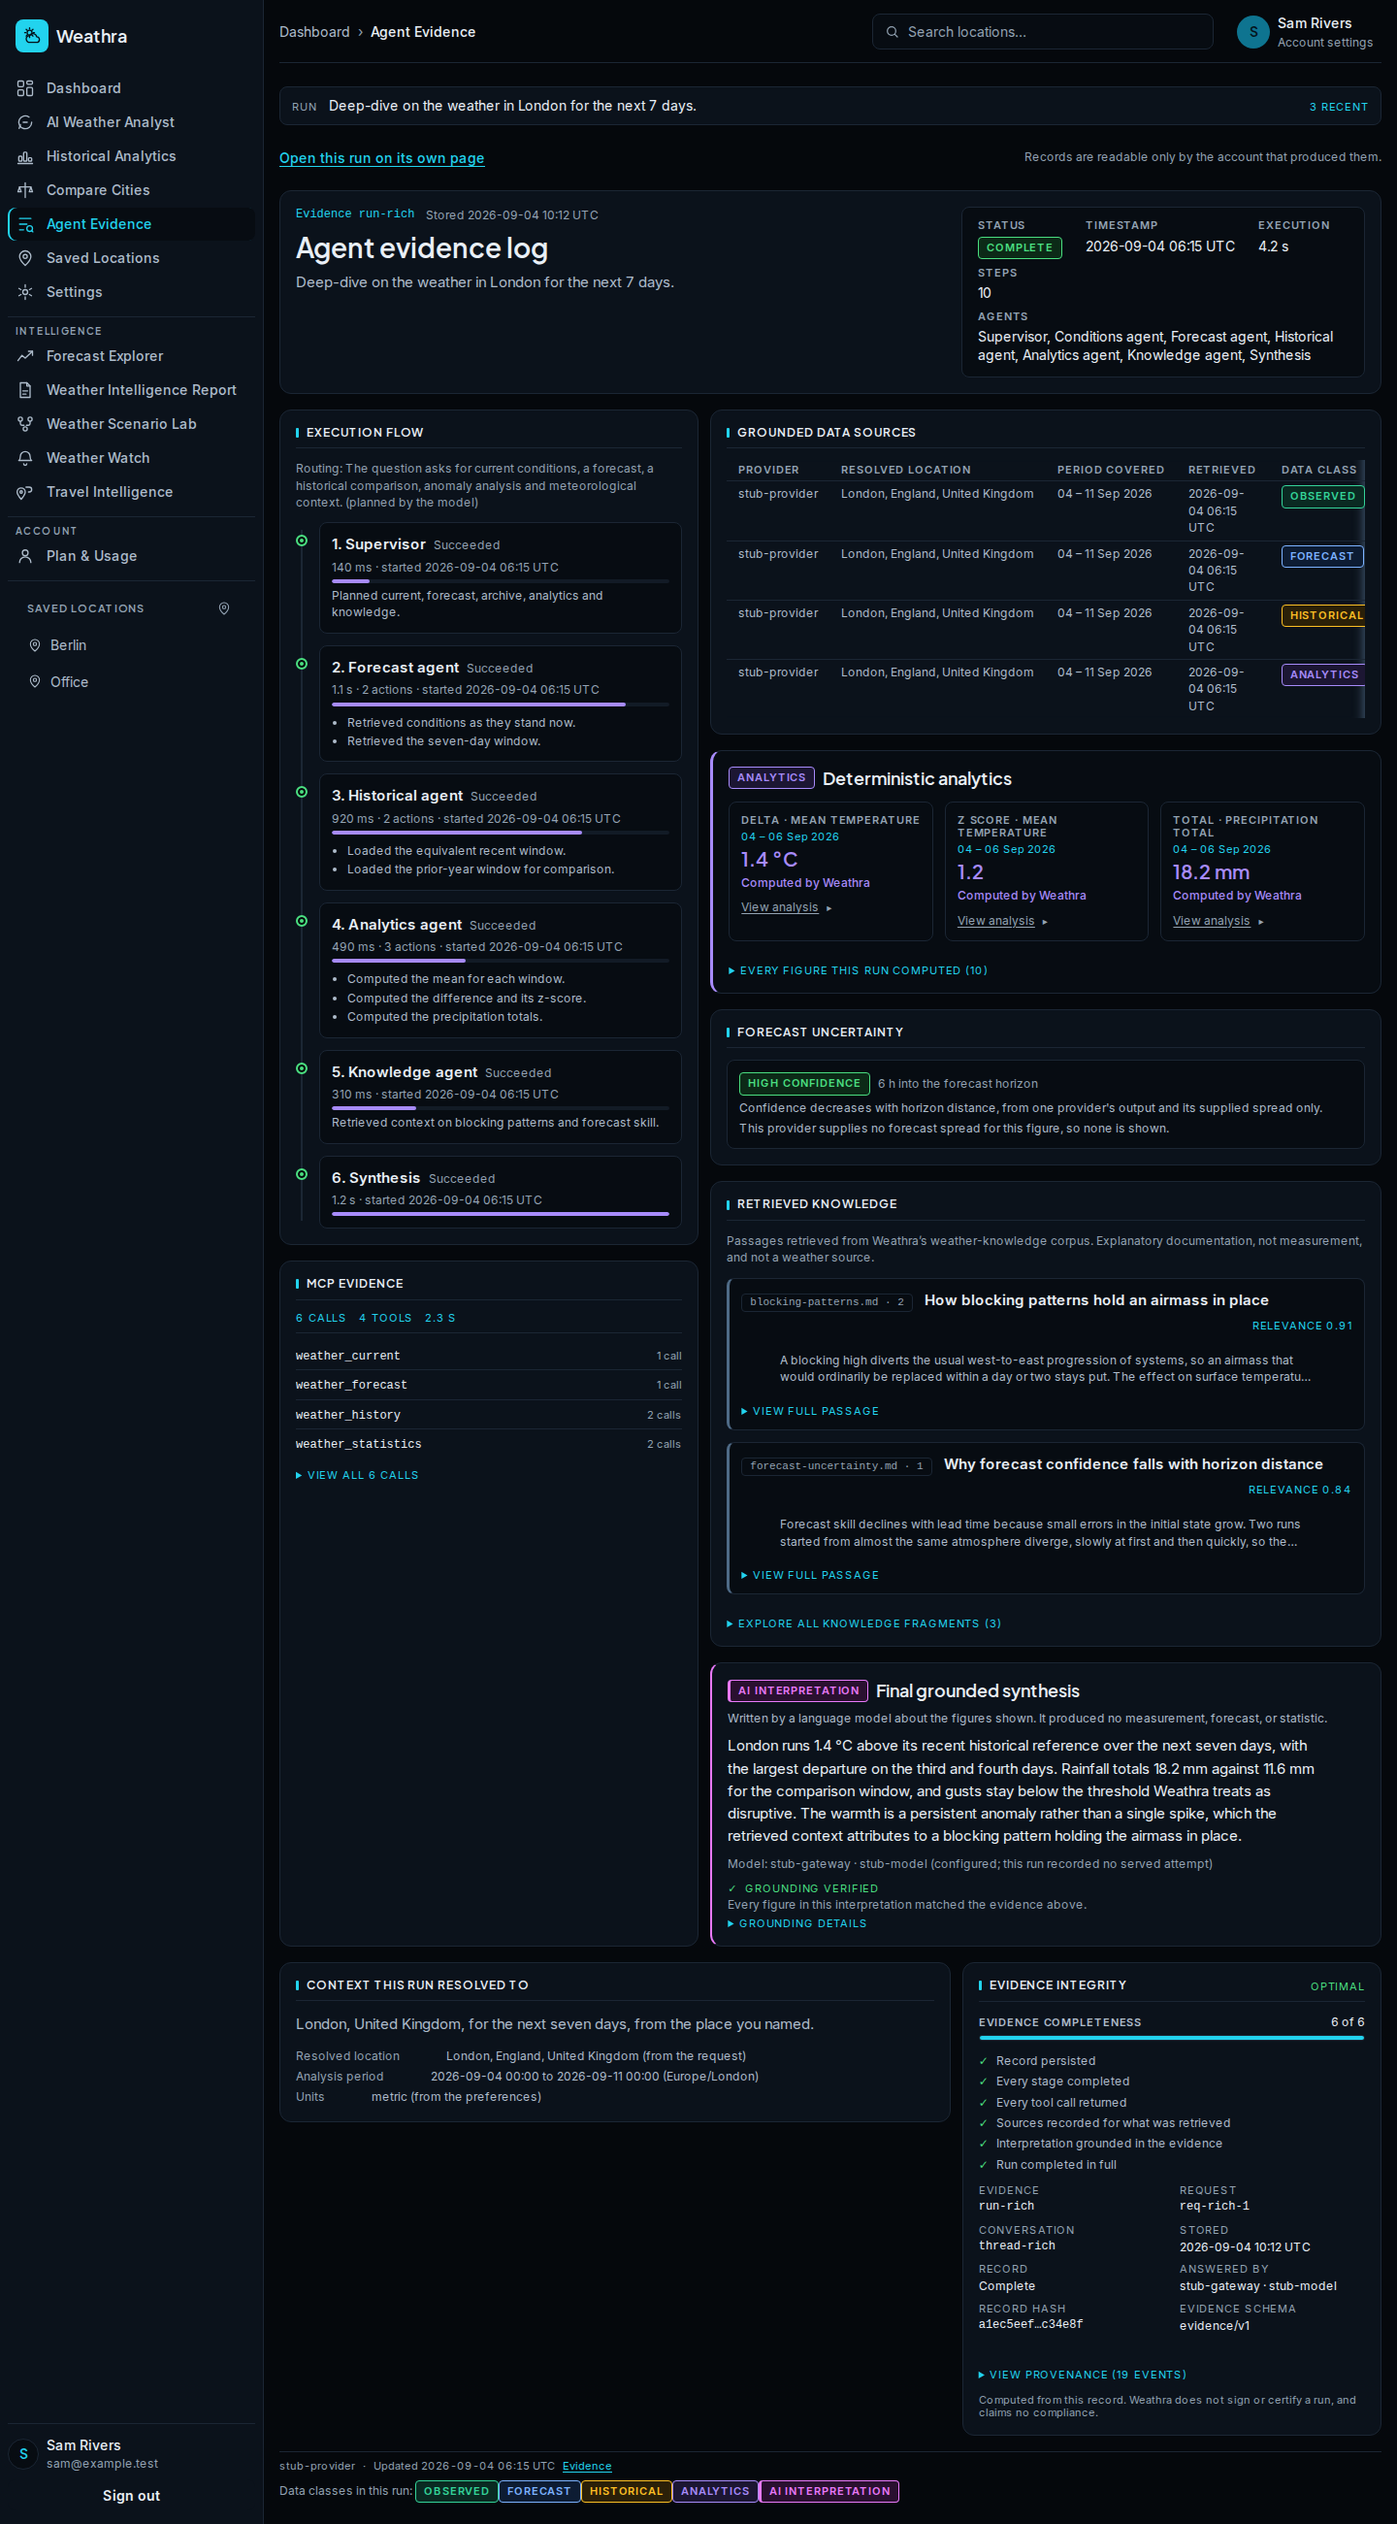
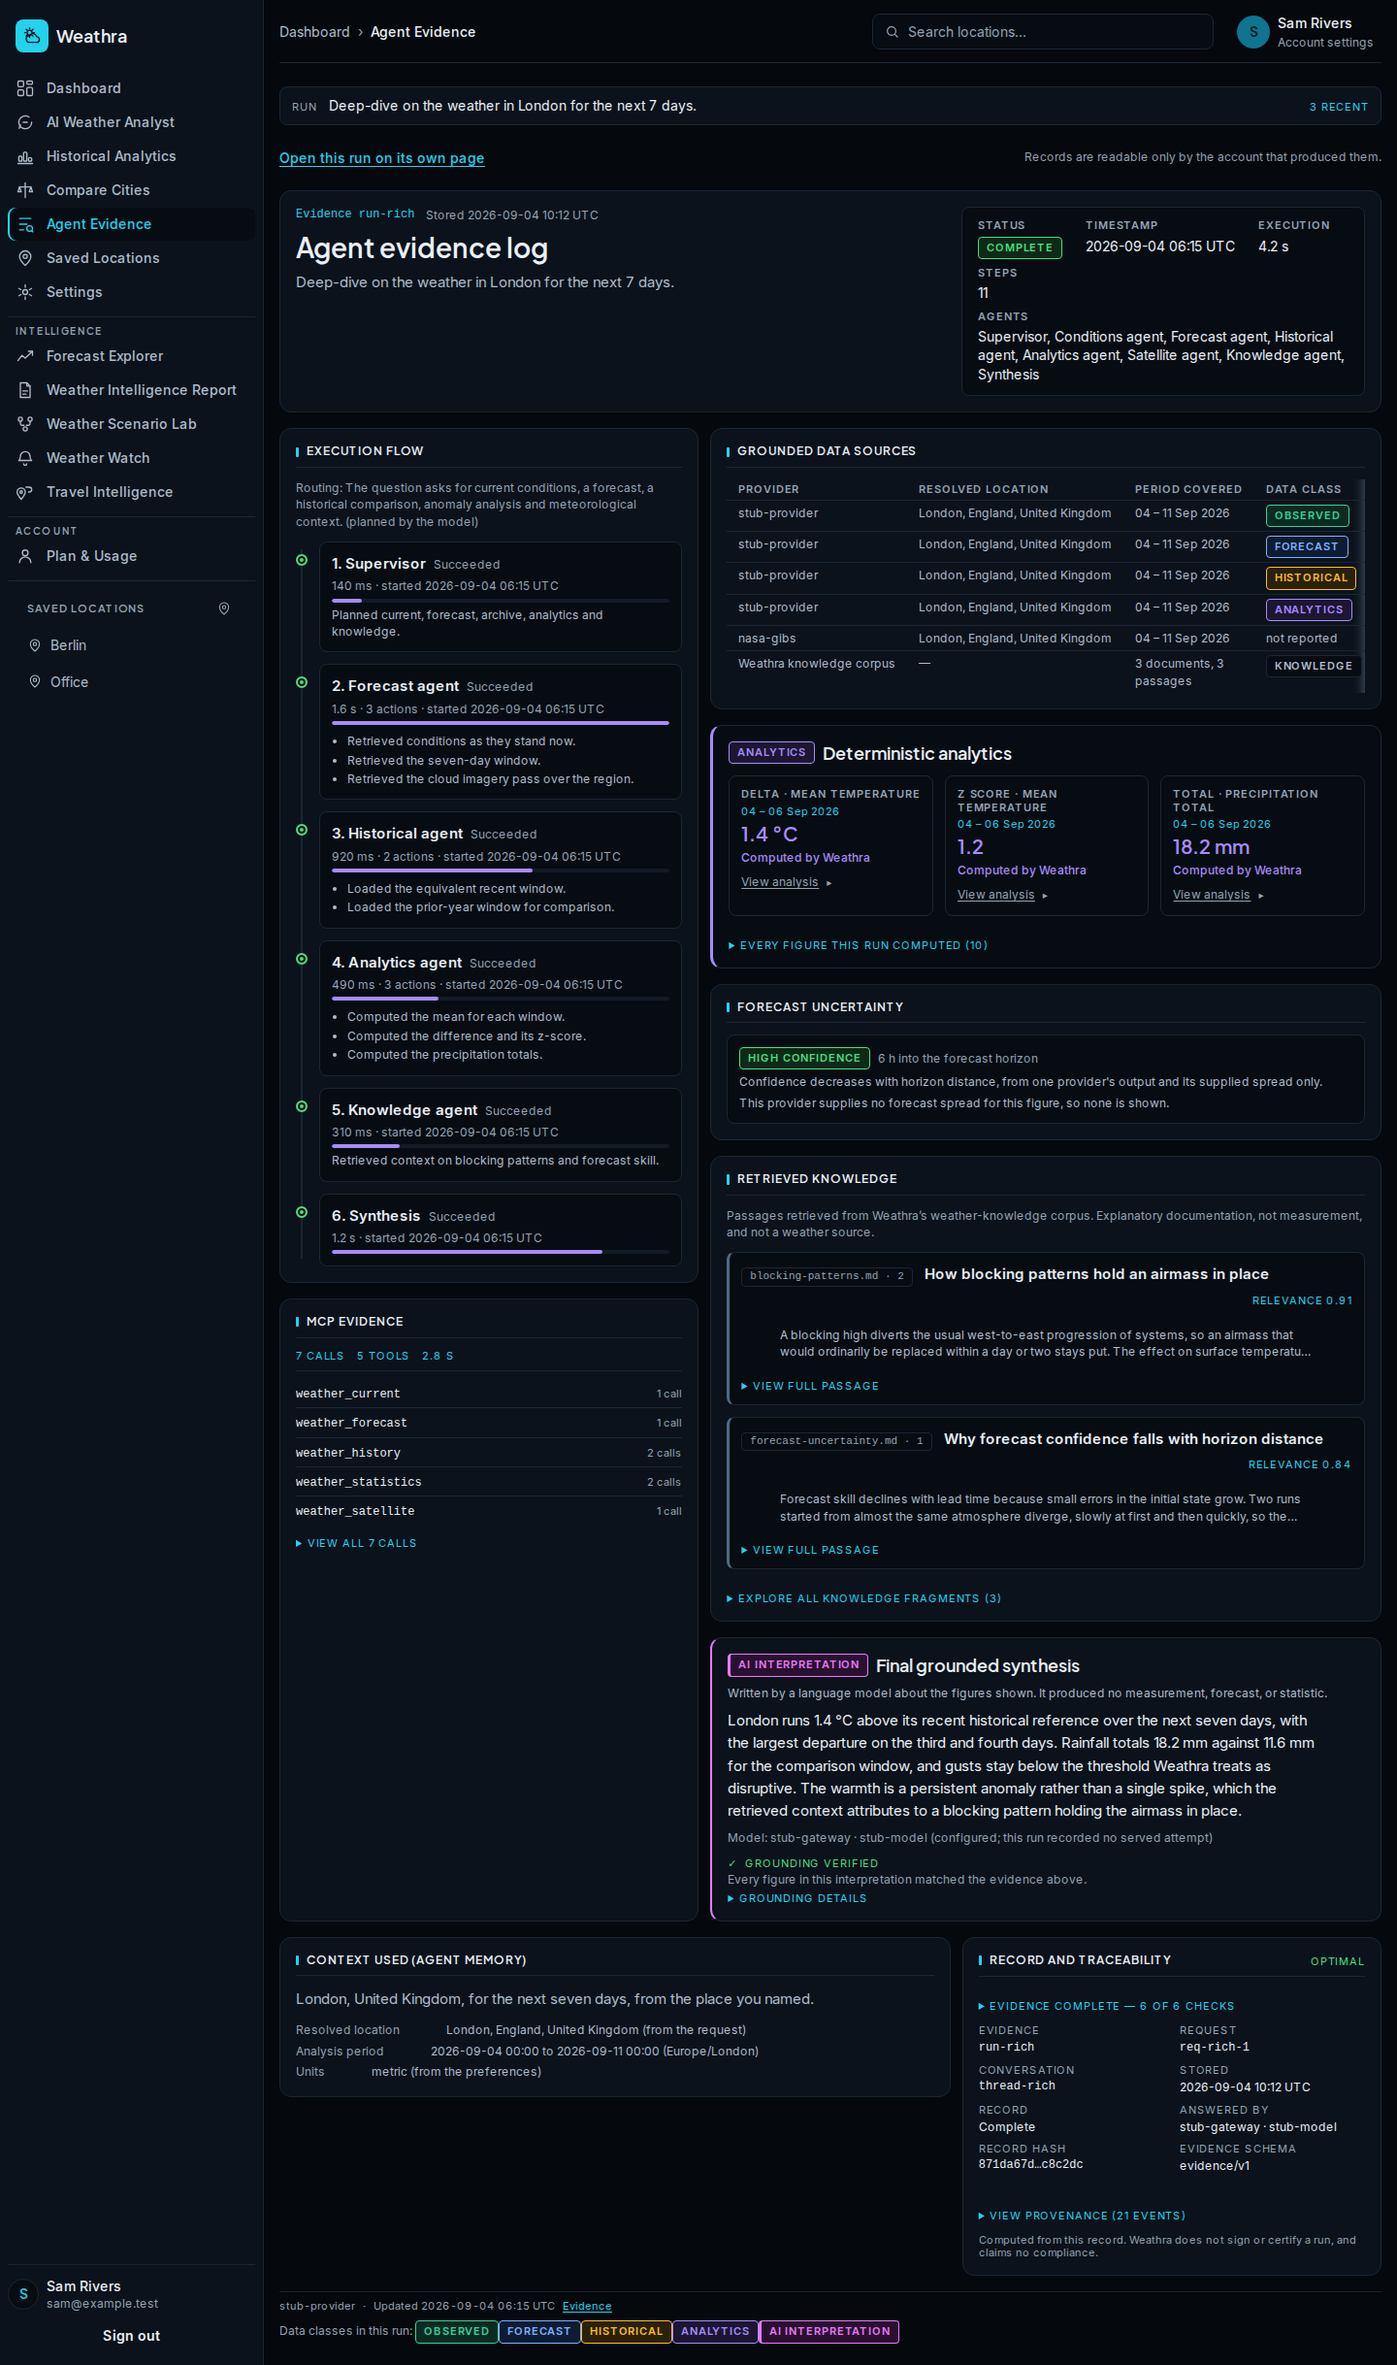
feat(evidence): the acceptance run, proved in the render
Six logical stages, six real evidence classes, and the artifact's own panel titles.

**Six stages, not eight.** Retrieval agents group into one card: conditions, the seven-day window
and the imagery pass are one part of the pipeline doing three things, and the column answers "which
parts ran". Grouping is presentation — `current`, `forecast` and `satellite_observation` each keep
their own row in the sources table, because they are different claims and the table is where that
distinction belongs.

**Six evidence classes.** Observed, forecast, historical and analytics from recorded attributions;
`nasa-gibs` for the imagery pass, which is the satellite source this project actually integrates
rather than the artifact's "NASA POWER"; and the knowledge corpus as a row of its own, derived from
citations the run recorded. A retrieval records an attribution and the corpus records citations, so
a run that leaned on documentation had nothing in the table saying where its explanation came from.
The row is omitted entirely when nothing was cited.

**The table fits.** Five columns cost the data-class chips their width — the class was clipped off
the right edge — so the retrieval instant left it for the provenance timeline, where "when" is
already answered properly.

**The artifact's titles.** "Context used (agent memory)" and "Record and traceability", which is
also where the completeness checks, hash, schema version and provenance now live: they belong in
[…]

diff --git a/weathra/frontend/components/evidence/sections.tsx b/weathra/frontend/components/evidence/sections.tsx
@@ -44,7 +44,6 @@ import {
   UncertaintyIndicator,
   formatInstant,
   formatLocalStamp,
-  Meter,
 } from "@/components/ui";
 import type {
   AnomalyReport,
@@ -557,22 +556,34 @@ export function ToolActivityPanel({ record }: { readonly record: RunRecord }): R
  */
 export function GroundedSources({
   sources,
+  citations = [],
 }: {
   readonly sources: readonly EvidenceAttribution[];
+  /** Passages the run cited. The corpus is a grounded source and belongs in this table. */
+  readonly citations?: readonly KnowledgeCitation[];
 }): ReactNode {
+  /*
+   * The knowledge corpus, as a row of its own.
+   *
+   * A retrieval records an attribution; the corpus records citations instead, so a run that leaned
+   * on documentation showed nothing in the table that said where the explanation came from. The row
+   * is derived from citations the run actually recorded — the documents it read, counted — and is
+   * omitted entirely when it cited none. Weathra's own corpus, so the provider is Weathra.
+   */
+  const documents = [...new Set(citations.map((citation) => citation.document_id))];
   return (
     <section
       className={styles.panel}
       aria-label="Grounded data sources"
       data-evidence-section="sources"
       data-tier="retrieved"
-      data-empty={sources.length === 0 ? "true" : undefined}
+      data-empty={sources.length === 0 && documents.length === 0 ? "true" : undefined}
     >
       <header className={styles.panelHeader}>
         <h2 className={styles.panelTitle}>Grounded data sources</h2>
       </header>
 
-      {sources.length === 0 ? (
+      {sources.length === 0 && documents.length === 0 ? (
         <p className={styles.emptyNote}>
           No provider data — this run answered from knowledge rather than from a weather retrieval.
         </p>
@@ -588,7 +599,6 @@ export function GroundedSources({
                 <th scope="col">Provider</th>
                 <th scope="col">Resolved location</th>
                 <th scope="col">Period covered</th>
-                <th scope="col">Retrieved</th>
                 <th scope="col">Data class</th>
               </tr>
             </thead>
@@ -603,11 +613,25 @@ export function GroundedSources({
                     <td>{source.provider}</td>
                     <td>{placeLabel(source.location) ?? NOT_REPORTED}</td>
                     <td title={exactCoverageOf(source)}>{coverageOf(source)}</td>
-                    <td>{formatInstant(source.retrieved_at) ?? NOT_REPORTED}</td>
                     <td>{dataClass ? <DataClassBadge dataClass={dataClass} /> : NOT_REPORTED}</td>
                   </tr>
                 );
               })}
+
+              {/* The corpus, where the run cited it. Derived from real citations, never invented. */}
+              {documents.length > 0 ? (
+                <tr data-source-class="knowledge">
+                  <td>Weathra knowledge corpus</td>
+                  <td>&mdash;</td>
+                  <td>
+                    {documents.length} {documents.length === 1 ? "document" : "documents"},{" "}
+                    {citations.length} {citations.length === 1 ? "passage" : "passages"}
+                  </td>
+                  <td>
+                    <Badge tone="neutral">KNOWLEDGE</Badge>
+                  </td>
+                </tr>
+              ) : null}
             </tbody>
           </table>
         </ScrollRegion>
@@ -958,12 +982,12 @@ export function ResolvedContextPanel({ record }: { readonly record: RunRecord })
   return (
     <section
       className={styles.panel}
-      aria-label="Context this run resolved to"
+      aria-label="Context used (agent memory)"
       data-evidence-section="context"
       data-empty={resolved === null ? "true" : undefined}
     >
       <header className={styles.panelHeader}>
-        <h2 className={styles.panelTitle}>Context this run resolved to</h2>
+        <h2 className={styles.panelTitle}>Context used (agent memory)</h2>
       </header>
 
       {resolved === null ? (
@@ -1217,11 +1241,11 @@ export function RecordAudit({
   return (
     <section
       className={styles.panel}
-      aria-label="Evidence integrity"
+      aria-label="Record and traceability"
       data-evidence-section="audit"
     >
       <header className={styles.panelHeader}>
-        <h2 className={styles.panelTitle}>Evidence integrity</h2>
+        <h2 className={styles.panelTitle}>Record and traceability</h2>
         <span className={styles.integrityState} data-state={audit.state.toLowerCase()}>
           {audit.state}
         </span>
@@ -1232,25 +1256,29 @@ export function RecordAudit({
         completeness checks below that passed. Not a model's confidence in its own answer — which is
         what a percentage on an evidence screen usually is, and what nothing here can honestly be.
       */}
-      <Meter
-        label="Evidence completeness"
-        value={audit.completeness / 100}
-        valueLabel={`${audit.passed} of ${audit.total}`}
-      />
-
-      <ul className={styles.checks}>
-        {audit.checks.map((check) => (
-          <li className={styles.check} key={check.id} data-passed={check.passed ? "true" : "false"}>
-            <span className={styles.checkMark} aria-hidden="true">
-              {check.passed ? "✓" : "✕"}
-            </span>
-            <span>
-              {check.label}
-              {check.note ? <span className={styles.quiet}> — {check.note}</span> : null}
-            </span>
-          </li>
-        ))}
-      </ul>
+      {/*
+        The checks are the figure's working, and they belong under it rather than beside it: this is
+        the artifact's audit slot, not a feature of its own. Folded away when everything passed,
+        because a reader only needs the list when the state is not "optimal".
+      */}
+      <details className={styles.moreFigures} open={audit.state !== "Optimal"}>
+        <summary>
+          Evidence complete — {audit.passed} of {audit.total} checks
+        </summary>
+        <ul className={styles.checks}>
+          {audit.checks.map((check) => (
+            <li className={styles.check} key={check.id} data-passed={check.passed ? "true" : "false"}>
+              <span className={styles.checkMark} aria-hidden="true">
+                {check.passed ? "\u2713" : "\u2715"}
+              </span>
+              <span>
+                {check.label}
+                {check.note ? <span className={styles.quiet}> — {check.note}</span> : null}
+              </span>
+            </li>
+          ))}
+        </ul>
+      </details>
 
       <dl className={styles.auditFacts}>
         <div className={styles.auditFact}>

diff --git a/weathra/frontend/components/evidence/evidence.test.tsx b/weathra/frontend/components/evidence/evidence.test.tsx
@@ -466,7 +466,7 @@ describe("a populated evidence record", () => {
      */
     expect(screen.getByText("Evidence run-1")).toBeInTheDocument();
 
-    const audit = screen.getByRole("region", { name: "Evidence integrity" });
+    const audit = screen.getByRole("region", { name: "Record and traceability" });
     expect(within(audit).getByText("req-77")).toBeInTheDocument();
     expect(within(audit).getByText("thread-3")).toBeInTheDocument();
   });
@@ -685,7 +685,14 @@ describe("provenance and the data classes", () => {
 
     expect(sources).toHaveAttribute("data-tier", "retrieved");
 
-    const rows = within(sources).getAllByRole("row").slice(1);
+    /*
+     * Attribution rows only. The corpus row that follows them is derived from citations rather than
+     * from a retrieval, and is asserted separately.
+     */
+    const rows = within(sources)
+      .getAllByRole("row")
+      .slice(1)
+      .filter((row) => row.getAttribute("data-source-class") !== "knowledge");
     expect(rows).toHaveLength(2);
 
     const forecastRow = at(rows, 0);
@@ -701,7 +708,10 @@ describe("provenance and the data classes", () => {
     expect(
       within(forecastRow).getByTitle("2026-09-05 00:00 to 2026-09-05 23:00 (Europe/Berlin)"),
     ).toBeInTheDocument();
-    expect(forecastRow).toHaveTextContent("2026-09-04 09:04 UTC");
+    /*
+     * The retrieval instant left this table and lives in the provenance timeline instead: five
+     * columns cost the data class its width, and "when" is a question the audit panel answers.
+     */
     expect(within(forecastRow).getByText("FORECAST")).toBeInTheDocument();
 
     const archiveRow = at(rows, 1);
@@ -729,7 +739,7 @@ describe("provenance and the data classes", () => {
 
   it("shows the location and period the run resolved to, and where each came from", async () => {
     renderScreen();
-    const context = await screen.findByRole("region", { name: "Context this run resolved to" });
+    const context = await screen.findByRole("region", { name: "Context used (agent memory)" });
 
     expect(context).toHaveTextContent("Berlin, Germany (from the preferences)");
     expect(context).toHaveTextContent("2026-09-05 00:00 to 2026-09-05 23:00 (Europe/Berlin)");
@@ -902,9 +912,13 @@ describe("nothing on the screen came from anywhere but the record", () => {
     expect(
       toolCalls(),
     ).toHaveLength(STORED_EVIDENCE.tool_calls.length);
+    /*
+     * A header row, one row per stored attribution, and — because this record cites knowledge — the
+     * corpus row derived from those citations. Every row traces to something the record holds.
+     */
     expect(
       within(screen.getByRole("region", { name: "Grounded data sources" })).getAllByRole("row"),
-    ).toHaveLength(STORED_EVIDENCE.attributions.length + 1);
+    ).toHaveLength(STORED_EVIDENCE.attributions.length + 2);
     expect(
       within(screen.getByRole("region", { name: "Retrieved knowledge" })).getAllByRole("listitem"),
     ).toHaveLength(CITATIONS.length);

diff --git a/weathra/frontend/lib/evidence/record.ts b/weathra/frontend/lib/evidence/record.ts
@@ -550,14 +550,18 @@ export interface AgentStage {
 /**
  * Agents that share a logical stage on screen.
  *
- * A reading of conditions now and a projection of the days ahead are different claims under
- * different data classes, which is why the domain keeps `current` and `forecast` as separate
- * agents — and the *sources* table keeps them separate for exactly that reason. But a reader
- * looking at the execution column is asking which parts of the pipeline ran, and "retrieved the
- * conditions, then retrieved the window" is one part doing two things. Grouping is presentation;
- * no evidence is merged, and both data classes still appear in their own right.
+ * A reading of conditions now, a projection of the days ahead and an imagery pass are different
+ * claims under different data classes, which is why the domain keeps `current`, `satellite` and
+ * `forecast` as separate agents — and the *sources* table keeps a row for each, for exactly that
+ * reason. But a reader looking at the execution column is asking which parts of the pipeline ran,
+ * and "fetched the conditions, the window and the imagery" is one part — retrieval — doing three
+ * things. Grouping is presentation only: no evidence is merged, every data class still appears in
+ * its own right, and every action is still listed inside the card.
  */
-const STAGE_ALIASES: Readonly<Record<string, string>> = { current: "forecast" };
+const STAGE_ALIASES: Readonly<Record<string, string>> = {
+  current: "forecast",
+  satellite: "forecast",
+};
 
 export function agentStages(record: RunRecord): AgentStage[] {
   const order: string[] = [];

diff --git a/weathra/frontend/components/evidence/evidence.tsx b/weathra/frontend/components/evidence/evidence.tsx
@@ -123,7 +123,7 @@ function RecordView({ response }: { readonly response: EvidenceResponse }): Reac
         </div>
 
         <div className={styles.column}>
-          <GroundedSources sources={record.sources} />
+          <GroundedSources sources={record.sources} citations={record.citations} />
           <DeterministicAnalytics record={record} />
           <UncertaintyPanel record={record} />
           <KnowledgeEvidence citations={record.citations} />
